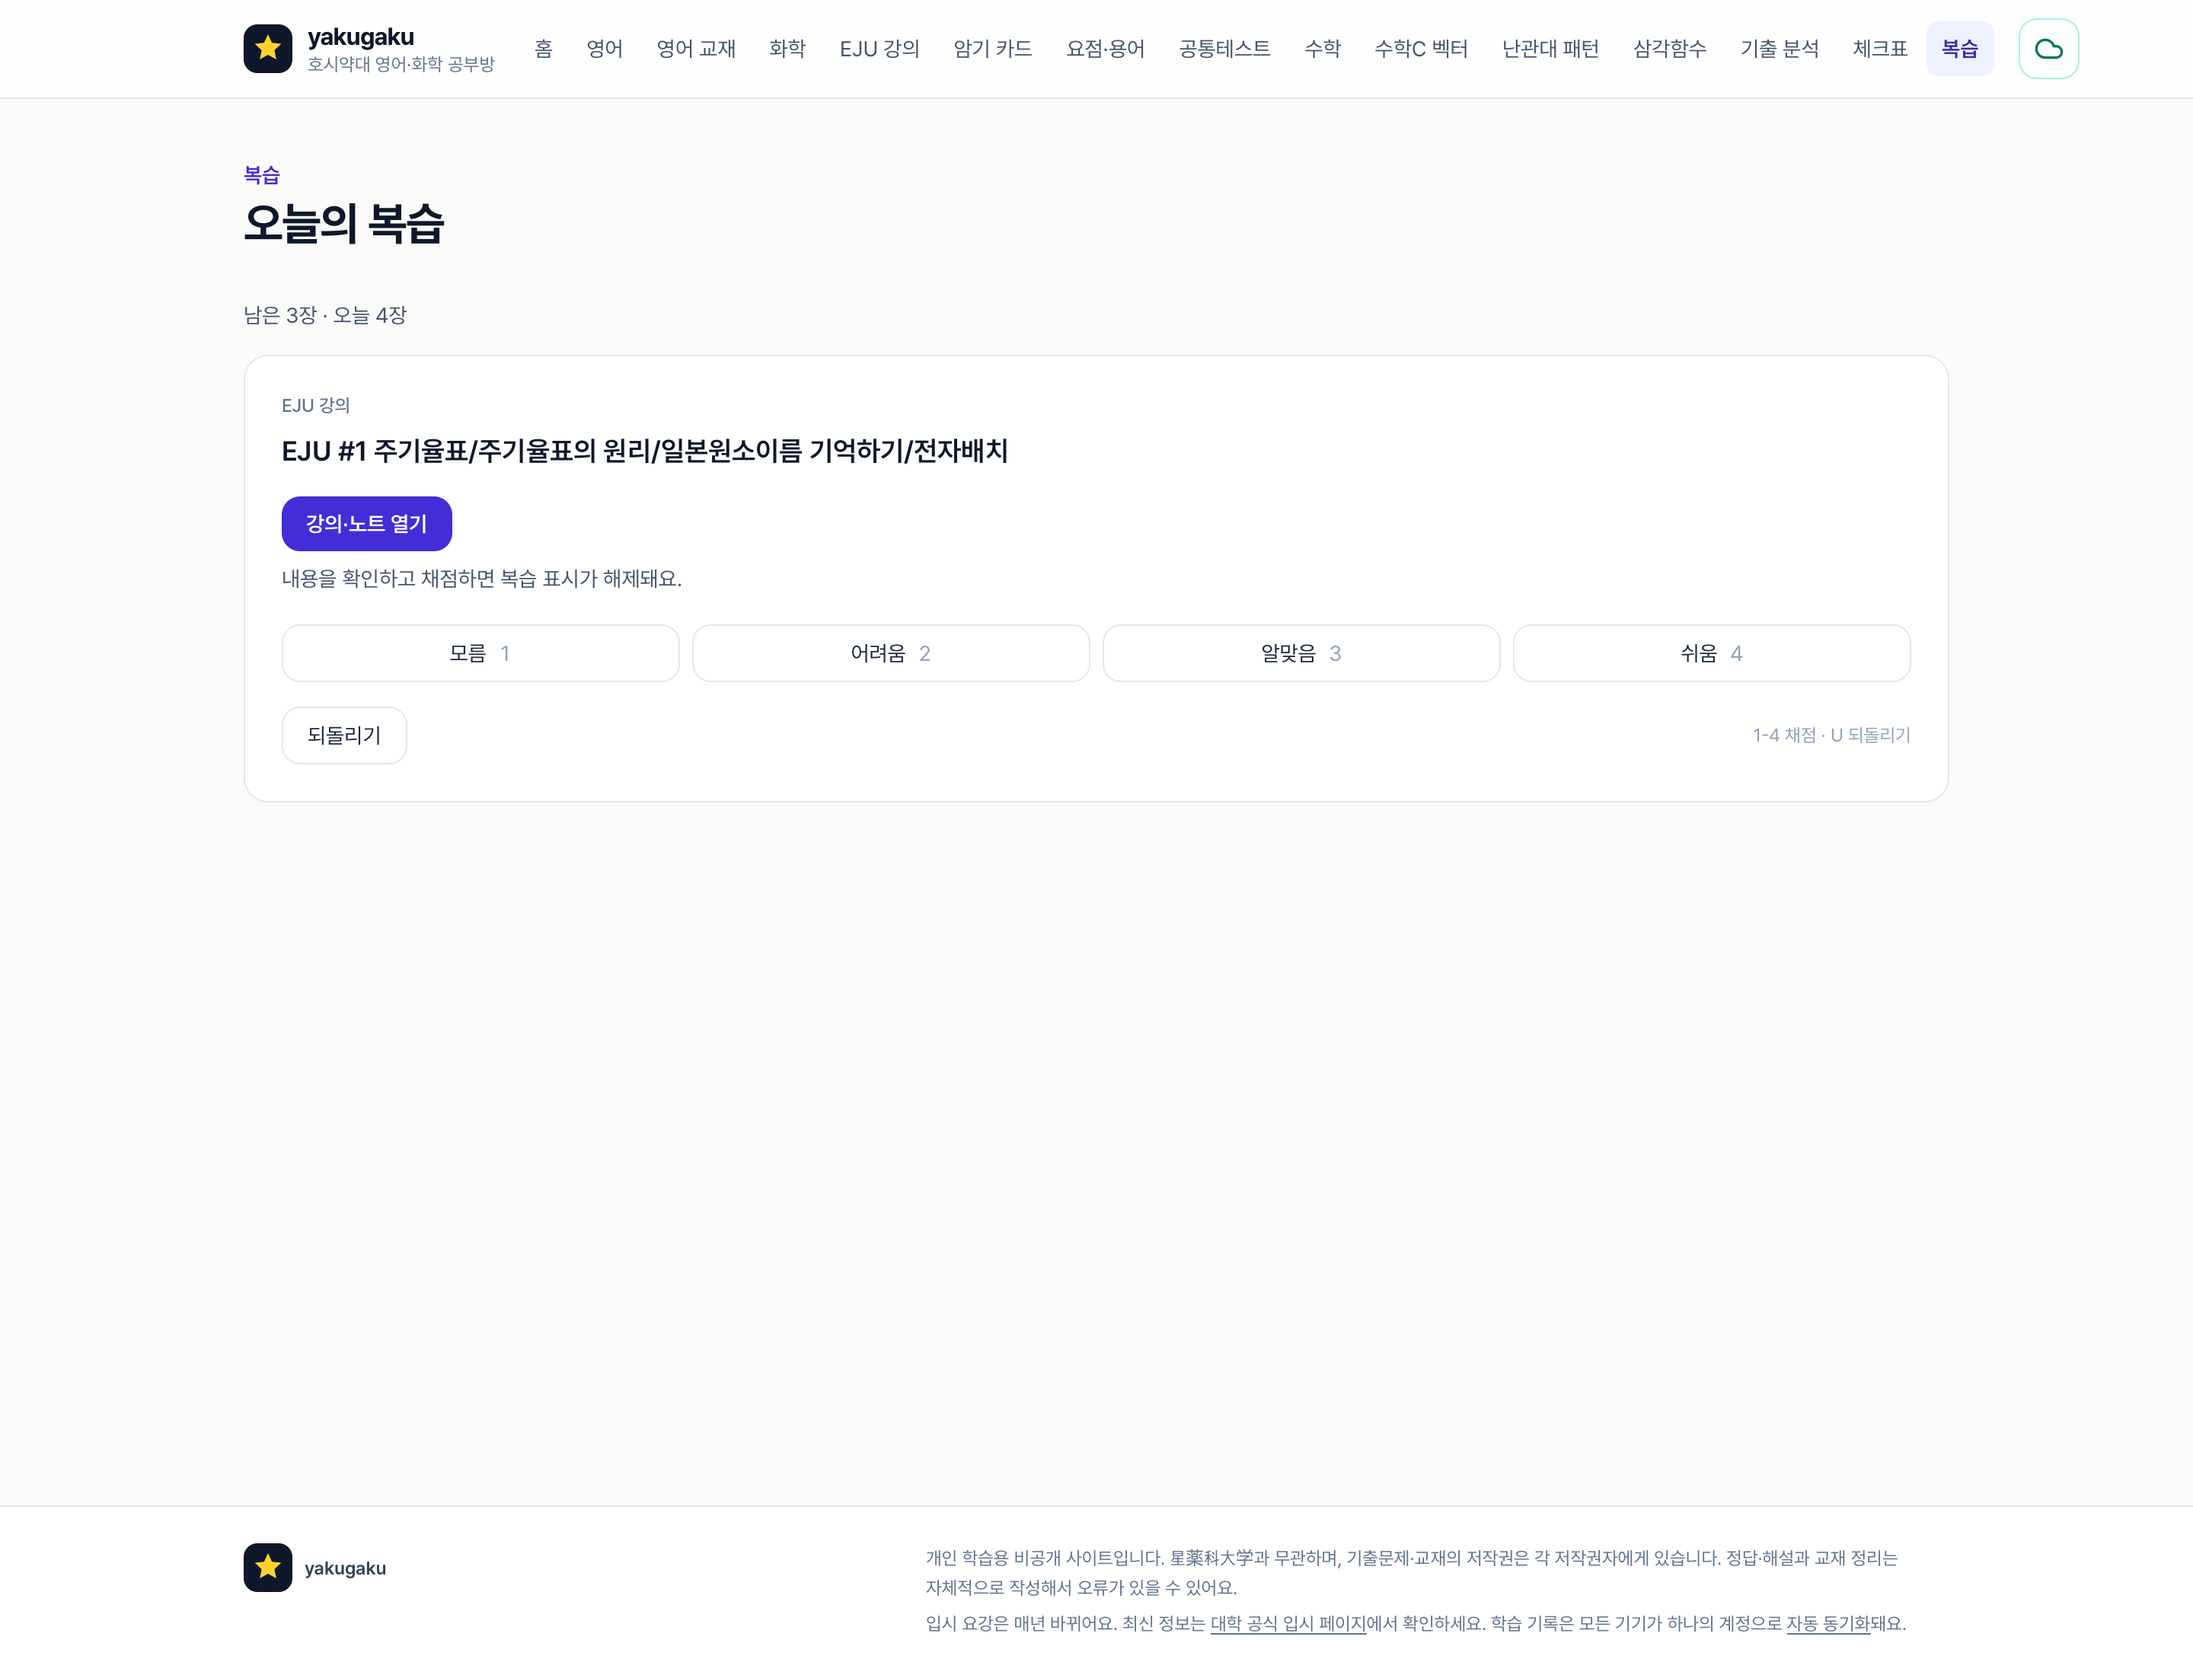
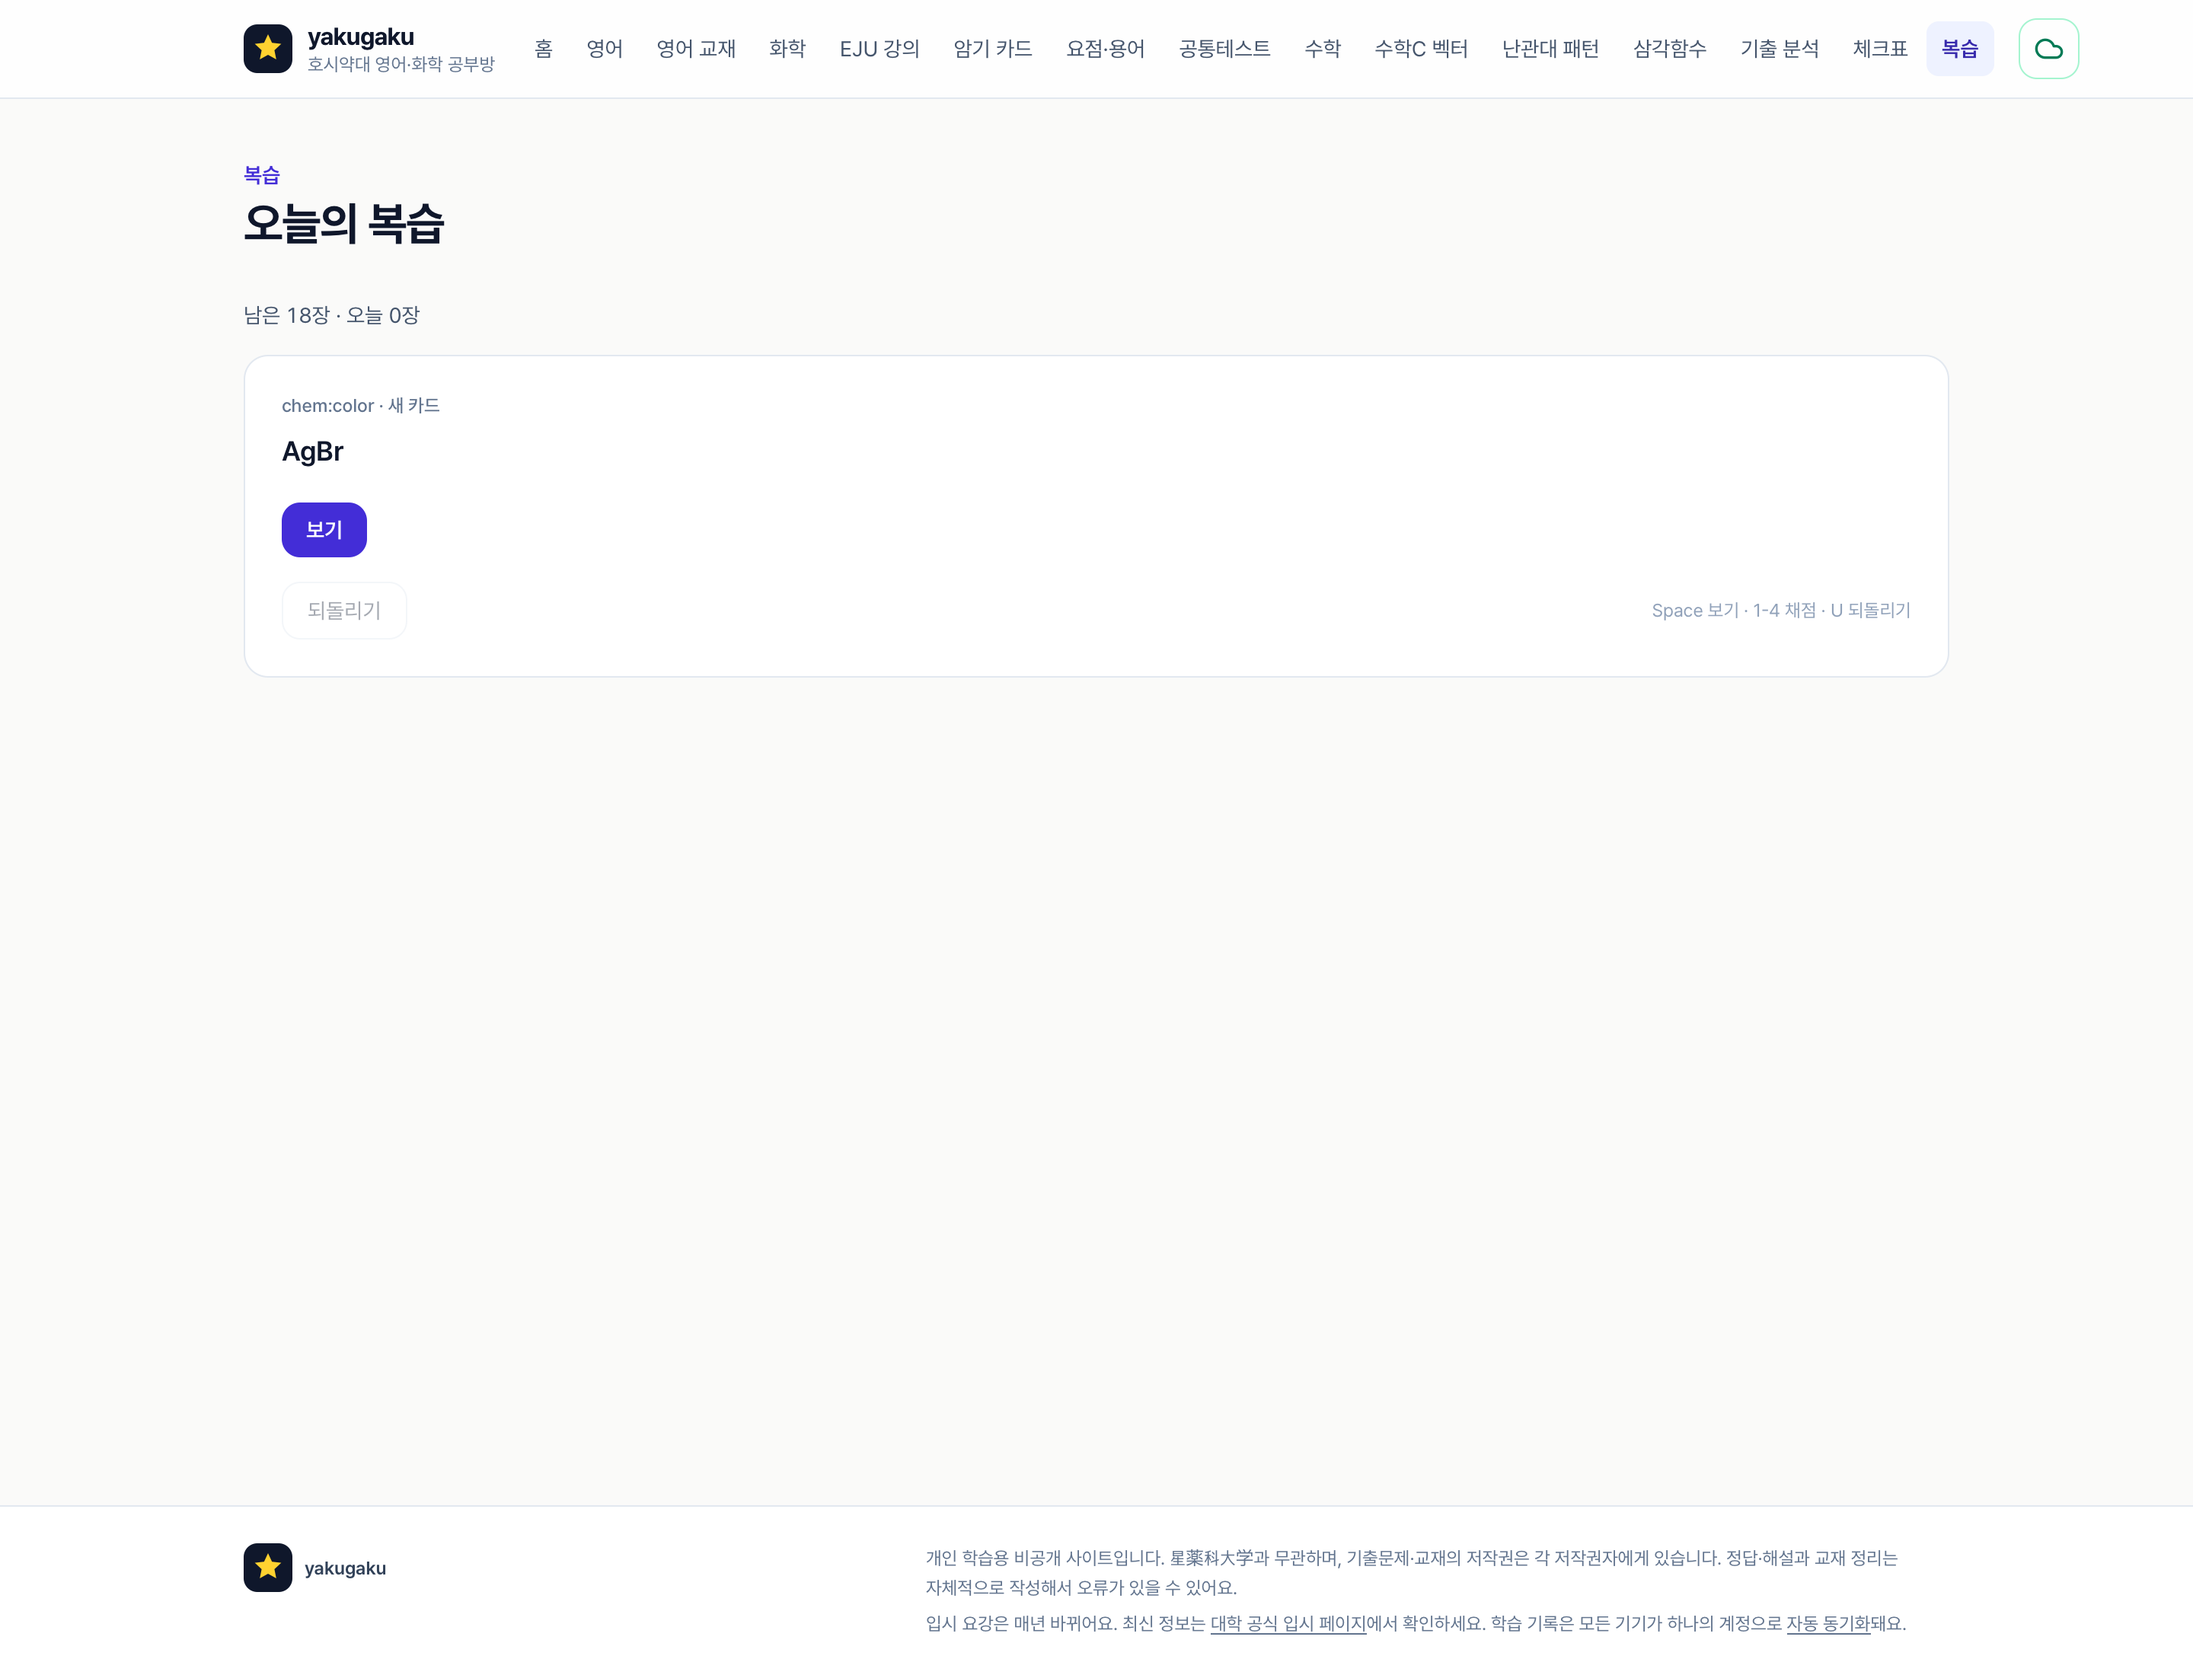
docs(review): record T10 lecture acceptance and the full stored-key audit
- task-10 evidence: 3 flagged lectures rode the same 18-item session, all 18
  graded, eju:review:* flags cleared to 0, srs:log:2026-11-09 = 18, and
  /check renders 75 review buttons with 0 pressed.
- task-12 evidence: added the missing eju:review:<idx> row so code and README
  agree on all 7 keys; notes that undo writes 0 instead of deleting srs:log.
- task-8 evidence regenerated against isolated storage: 150 due, 15 fresh,
  45 backlog, deck table footer equals the 8-row sum.
- dashboard empty state says 만기 카드 instead of 밀린 카드.
- plan tasks 14-18 marked done.

Changed region(s): [[0.125, 0.2164, 0.4688, 0.3709], [0.5625, 0.3709, 0.5938, 0.4018], [0.1562, 0.1855, 0.1875, 0.2164]]

diff --git a/src/pages/ReviewHome.tsx b/src/pages/ReviewHome.tsx
@@ -230,7 +230,7 @@ export default function ReviewHome() {
             </div>
             {dueByDeck.length === 0 ? (
               <p className="rounded-2xl border border-dashed border-slate-300 bg-white p-6 text-center text-sm text-slate-500">
-                밀린 카드가 없어요.
+                만기 카드가 없어요.
               </p>
             ) : (
               <div className="overflow-x-auto rounded-2xl border border-slate-200 bg-white shadow-sm">

diff --git a/.omo/plans/yakugaku-review-engine.md b/.omo/plans/yakugaku-review-engine.md
@@ -270,23 +270,23 @@ Your next move: 승인하면 `/ulw-execute yakugaku-review-engine` 으로 실행
   QA scenarios: happy — 왕복 스크린샷 2장 + 네트워크 로그. failure — 오프라인 채점 후 재연결 시 `yk-sync-pending` 비워지고 서버 반영. Evidence `.omo/evidence/task-13-yakugaku-review-engine.md`
   Commit: N | (검증 전용)
 
-- [ ] 14. 시딩 상태를 첫 채점이 실제로 소비하도록 수정 (IS-5)
+- [x] 14. 시딩 상태를 첫 채점이 실제로 소비하도록 수정 (IS-5)
   What to do: F4 검토에서 `applyGrade` 가 `readSrs(id) ?? init(today)` 로 시작해 T4 가 계산한 시딩 상태를 버리는 것을 확인했다. `resolveDrift(current, mark, markTimestamp, today)` 를 `applyGrade` 안에서도 사용해, `srs:` 가 아직 없는 기존 ○ 카드는 시딩된 `ivl=7` 에서 전진하고, `state.m !== 当前 mark` 인 드리프트도 재시딩 후 채점한다. mark 시각은 `itemsFor([markKey(id)])[0]?.t` 로 읽는다.
   Closes: IS-5
   Acceptance criteria: ○ 카드 첫 `o` 채점 후 `ivl` 이 7 다음 칸, 방금 ×로 바꾼 카드의 `o` 채점이 7칸을 넘지 않음. 테스트 2건 추가.
-- [ ] 15. 큐에 mark 시각을 전달해 오래된 ○ 카드를 밀린 것으로 집계 (IS-5)
+- [x] 15. 큐에 mark 시각을 전달해 오래된 ○ 카드를 밀린 것으로 집계 (IS-5)
   What to do: `buildQueue` 가 `resolveDrift(current, mark, undefined, today)` 로 시각을 버려 모든 기존 ○ 카드가 오늘 만기가 되던 문제. T4 규칙(`o` → mark 시각 + 7일, 시각 없으면 오늘)대로 시각을 넘긴다. `buildQueue` 는 순수 함수로 유지한다.
   Closes: IS-5
   Acceptance criteria: 30일 전 ○ 표시 카드가 backlog 로 잡히고, 시각 없는 ○ 는 오늘 만기.
-- [ ] 16. 덱별 표를 전체 만기 수로 집계 (IS-3)
+- [x] 16. 덱별 표를 전체 만기 수로 집계 (IS-3)
   What to do: `backlogByDeck` 이 softCap 초과분만 담아 100장 만기일 때 표 합계가 0이 되던 문제. `buildQueue` 에 `dueByDeck`(모든 만기 카드의 덱별 합계)을 추가하고 대시보드 표를 그것으로 그린다. `backlogByDeck` 은 세션 상한용으로 유지한다.
   Closes: IS-3
   Acceptance criteria: 만기 100장/softCap 120 → `dueByDeck` 합계 100·3개 덱, `backlogByDeck` 비어 있음. 만기 200장 → `dueByDeck` 합계 200.
-- [ ] 17. 인강·노트 복습 항목을 실제 큐와 세션에 연결 (IS-4)
+- [x] 17. 인강·노트 복습 항목을 실제 큐와 세션에 연결 (IS-4)
   What to do: F4 검토에서 `buildLectureItems` 에 호출자가 하나도 없고, `Review.tsx` 가 `queue.lectures` 를 버리는 것을 확인했다. IS-4("복습 필요로 표시한 항목과 오늘 만기된 카드가 같은 하루 큐에 함께 뜬다")가 전혀 이행되지 않은 상태였다. UI 레이어에서 강의·노트 데이터를 읽어 `buildQueue` 에 넘기고, 세션에서 강의 항목을 렌더하며, 채점하면 `eju:review:`·`note:review:` 플래그를 해제한다.
   Closes: IS-4
   Acceptance criteria: 복습 필요 2건이 세션에 뜨고, 채점 후 두 키가 사라지며, 대시보드 남은 수에 포함됨.
-- [ ] 18. 홈 카드 1회 클릭 진입·덱 필터 세션 분리·되돌리기 로그 보존 (IS-1, IS-2)
+- [x] 18. 홈 카드 1회 클릭 진입·덱 필터 세션 분리·되돌리기 로그 보존 (IS-1, IS-2)
   What to do: (a) 홈 오늘 카드가 대시보드로 가 두 번 눌러야 하던 것을 `/review/session` 직접 링크로. (b) 저장된 세션이 덱 필터를 기억하지 않아 덱 백로그 행을 눌러도 혼합 세션이 열리던 문제 — `SessionState` 에 `deckFilter` 를 저장하고 다르면 새 세션. (c) 되돌리기가 `srs:log:<today>` 를 tombstone 으로 지워 다른 기기 기록을 덮을 수 있던 문제 — 삭제 대신 `0` 을 쓴다(`srs:log` 는 절대 정리하지 않는다는 제약).
   Closes: IS-1, IS-2
   Acceptance criteria: 홈 카드 href = `#/review/session`; 저장 세션 필터 불일치 시 null 반환 테스트; 되돌리기 후 `srs:log:<today>` 키가 존재하고 값 0.
